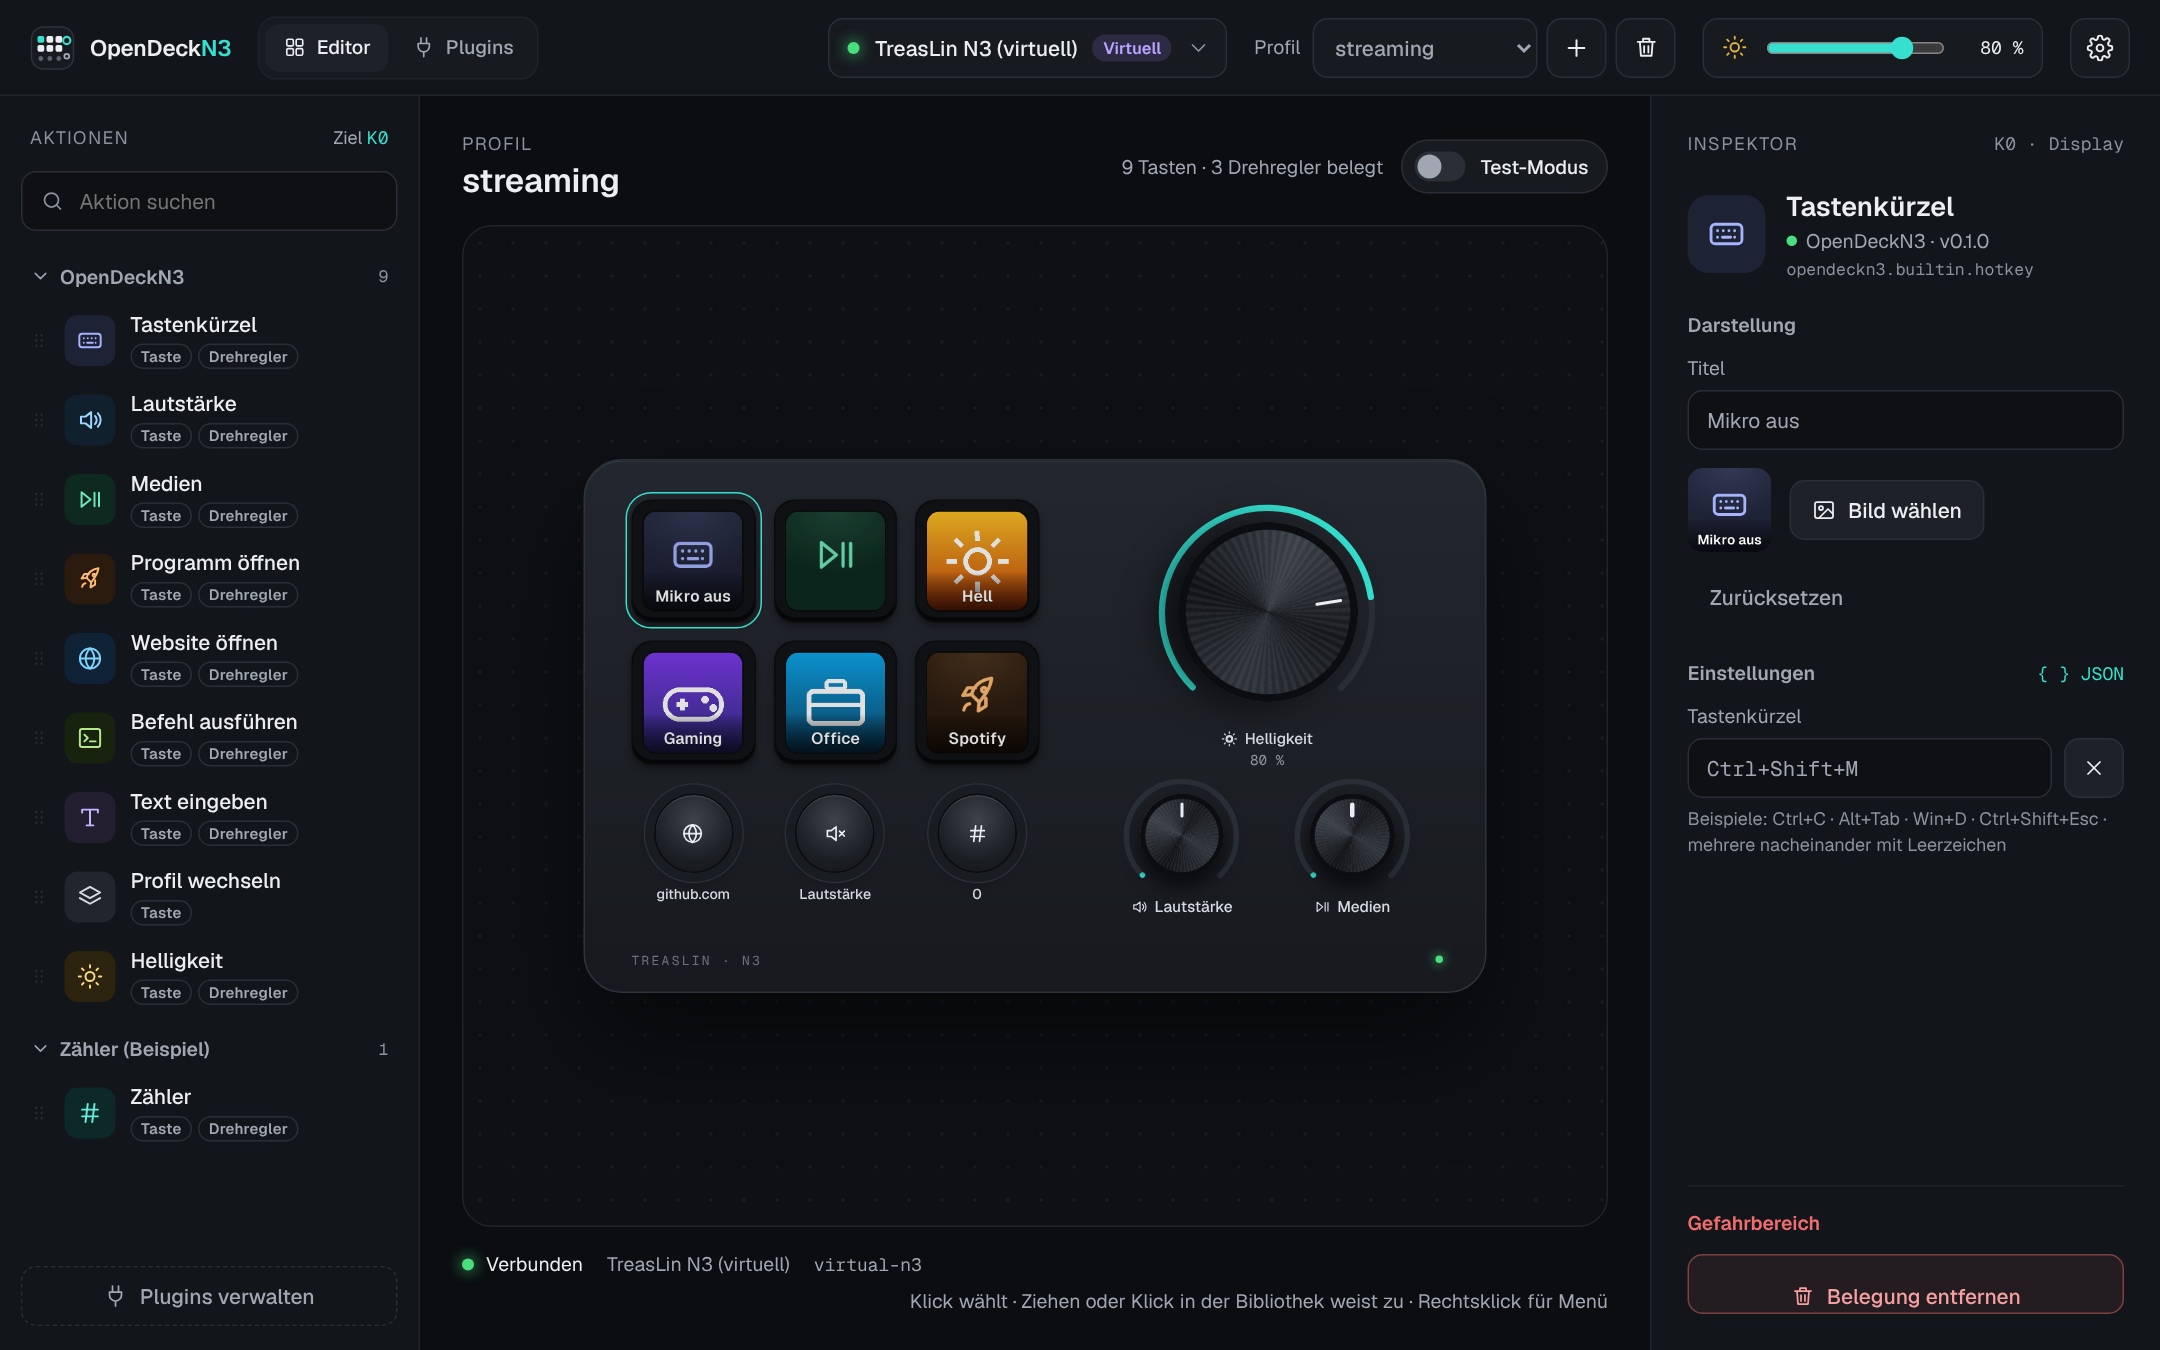
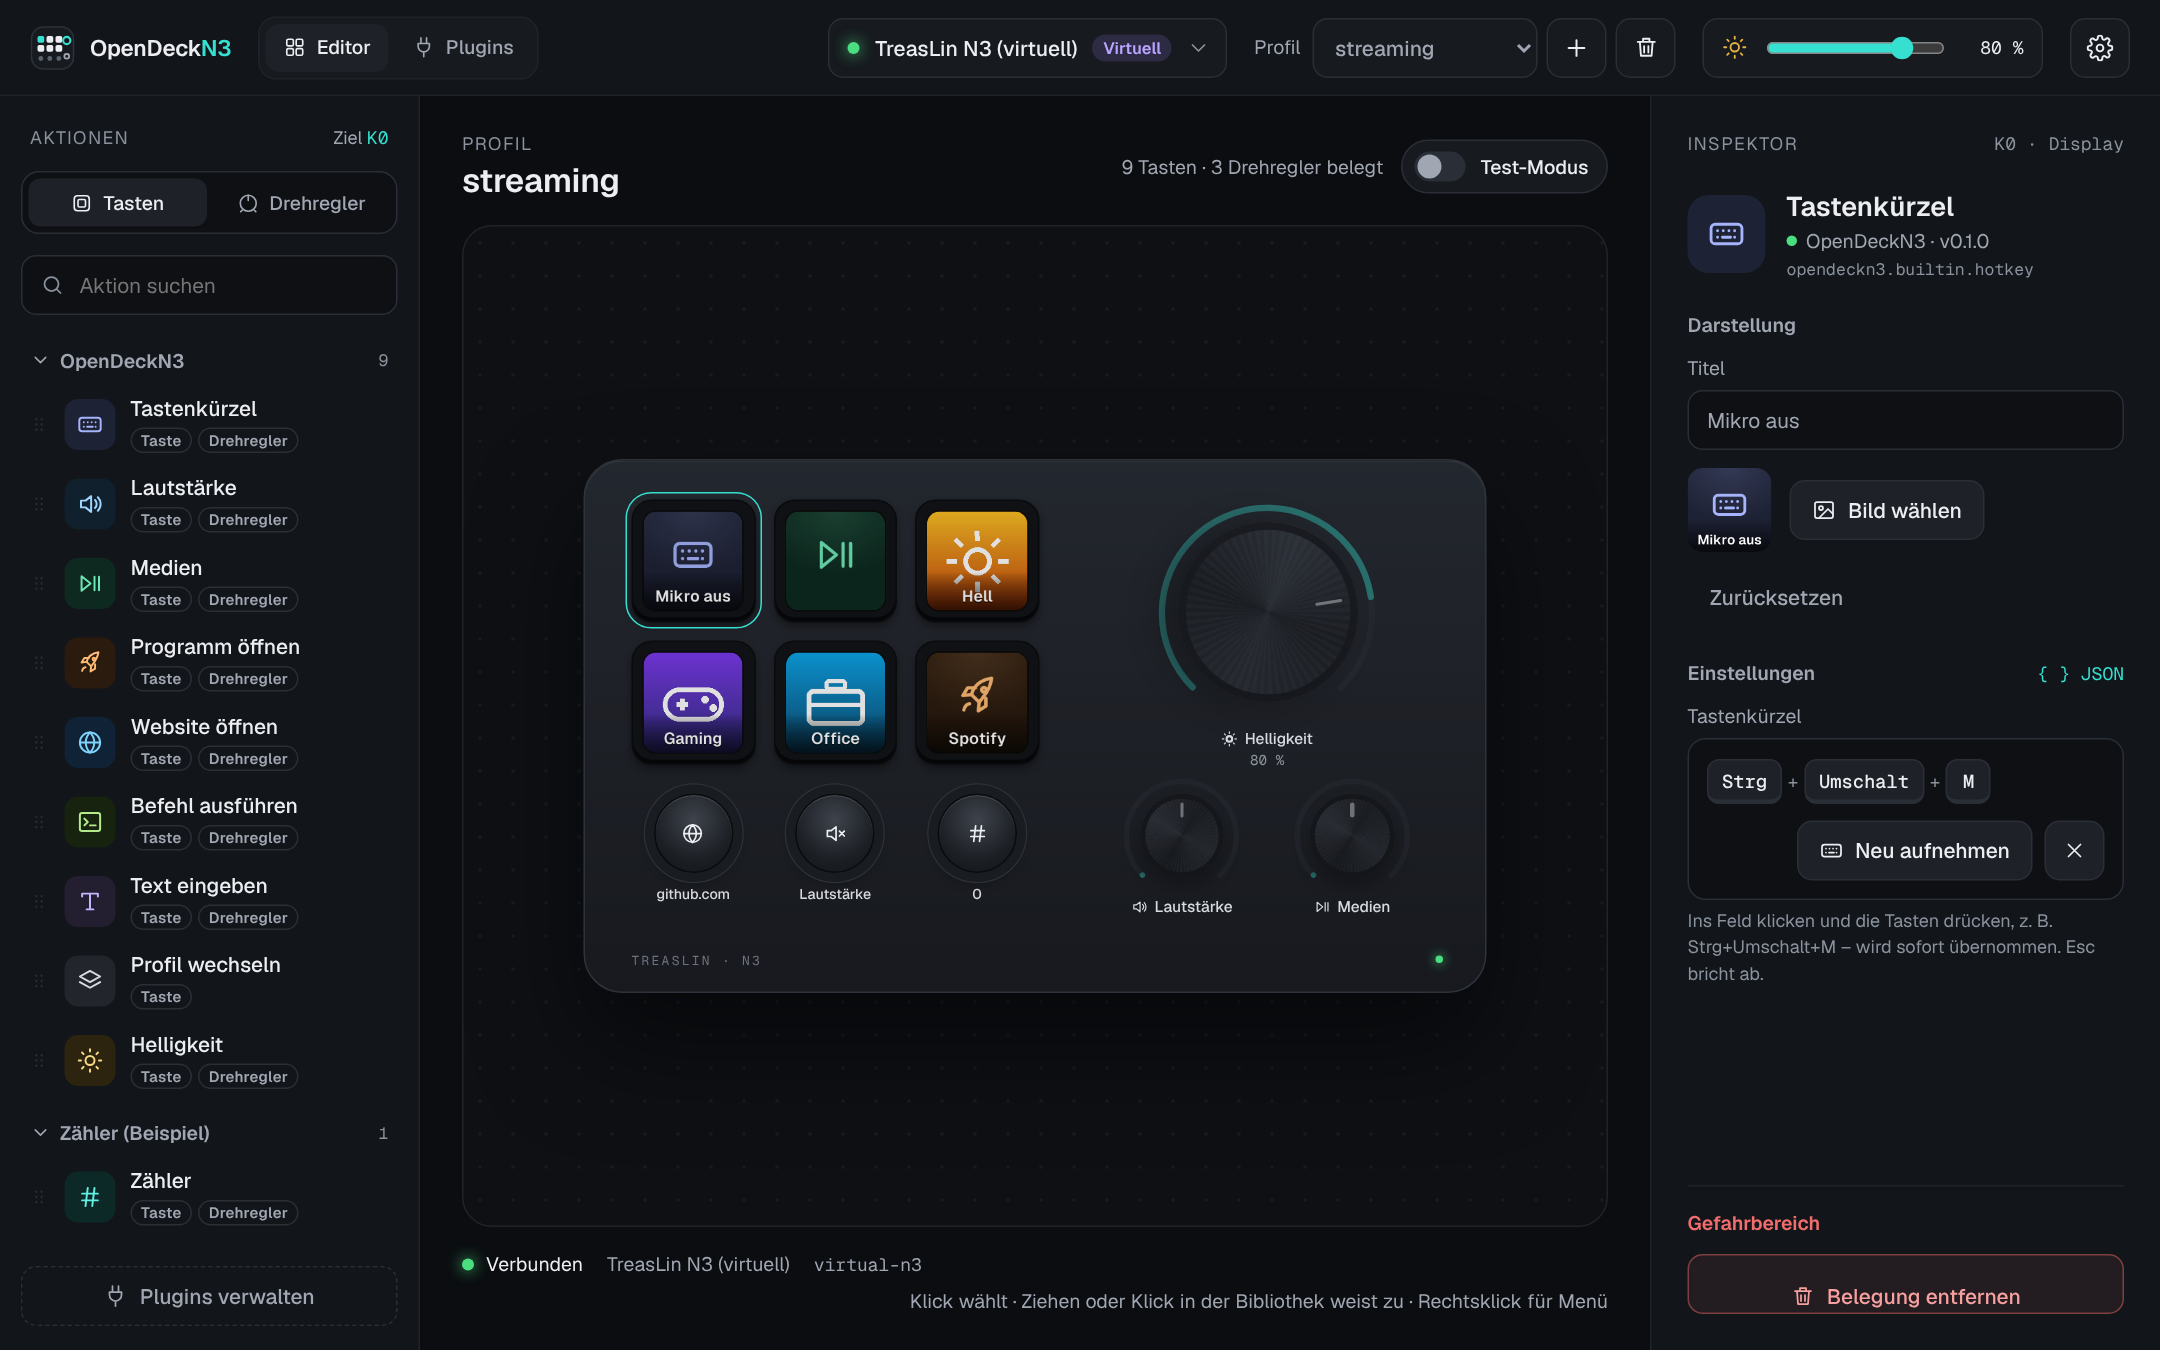
Bibliothek mit Modus Tasten/Drehregler, Tastenkürzel direkt im Feld aufnehmen
- Umschalter [Tasten | Drehregler] über der Aktionsbibliothek: es werden
  nur Aktionen für die gewählte Slot-Art gezeigt; der Modus folgt dem
  angeklickten Slot, beim Umschalten wird der zuletzt gewählte Slot
  dieser Art ausgewählt; Slots der anderen Art werden abgeblendet
- Tastenkürzel: das ganze Feld ist der Recorder (Klick oder Tab), und
  nach dem Zuweisen der Aktion startet die Aufnahme sofort – die nächste
  Kombination (z. B. Ctrl+Alt+T) wird direkt übernommen
- Screenshots aktualisiert

Claude-Session: https://claude.ai/code/session_011Ws7RT9k7MtuLviYWwDgxu

diff --git a/ui/index.html b/ui/index.html
@@ -192,6 +192,8 @@ pre.code{margin:0;padding:14px;font-family:'Geist Mono',monospace;font-size:12.5
 .replace::after{border-color:rgba(53,224,208,.3);border-style:dashed}
 .over::after{border-color:#35E0D0;background:rgba(53,224,208,.14);box-shadow:0 0 32px rgba(53,224,208,.5)}
 .disabled{opacity:.28}
+.dim{opacity:.4;transition:opacity .15s}.dim:hover{opacity:.75}
+.libmode{width:100%}.libmode button{flex:1;display:flex;align-items:center;justify-content:center;gap:7px}
 .press{box-shadow:0 0 0 2px #35E0D0,0 0 30px rgba(53,224,208,.55)!important}
 .device-outline{width:700px;height:404px;border-radius:30px;border:2px dashed var(--line);padding:34px 36px;display:flex;gap:56px;flex:none}
 .device-outline span{border:2px dashed var(--line);display:block}
@@ -354,6 +356,7 @@ const ICONS = {
   arrow: '<path d="M5 12h14M13 6l6 6-6 6"/>',
   edit: '<path d="M4 20h4L19 9l-4-4L4 16v4z"/><path d="M13.5 6.5l4 4"/>',
   duplicate: '<rect x="8" y="8" width="12" height="12" rx="2"/><path d="M4 16V5a1 1 0 0 1 1-1h11"/>',
+  dial: '<circle cx="12" cy="12" r="8.5"/><path d="M12 3.5V9"/><path d="M5.5 19.5l-1.5 1.5M18.5 19.5l1.5 1.5"/>',
   keyboard: '<rect x="2.5" y="6" width="19" height="12" rx="2.5"/><path d="M6.5 10h.01M10 10h.01M13.5 10h.01M17 10h.01M6.5 14h.01M17 14h.01M9.5 14h5"/>',
   text: '<path d="M5 7.5V5h14v2.5M12 5v14M9 19h6"/>',
   volumeDown: '<path d="M4 9v6h4l5 4V5L8 9H4z"/><path d="M16.5 8.5a5 5 0 0 1 0 7"/>',
@@ -641,6 +644,7 @@ function deviceHTML(v, o = {}) {
   const st = (x) => {
     const c = [];
     if (o.sel === x.id && !o.dragCtl) c.push('sel');
+    if (o.mode && !o.dragCtl && (x.id[0] === 'k' ? 'Keypad' : 'Encoder') !== o.mode) c.push('dim');
     if (o.pressed === x.id) c.push('press');
     if (o.dragCtl) {
       const ok = o.dragCtl.includes(x.id[0] === 'k' ? 'Keypad' : 'Encoder');
@@ -752,11 +756,16 @@ function barHTML() {
 /* =====================================================================
    Editor
    ===================================================================== */
+// Bibliotheks-Modus folgt dem gewählten Slot: Taste → Tasten-Aktionen, Drehregler → Drehregler-Aktionen.
+const libMode = () => parseId(S.sel).ctl;
+const lastSel = { Keypad: 'k0', Encoder: 'e1' };
+
 function libListHTML() {
   const q = S.q.trim().toLowerCase();
   let hits = 0;
   const html = S.catalog.map((p) => {
-    const items = p.actions.filter((a) => !q || a.name.toLowerCase().includes(q) || (a.tooltip || '').toLowerCase().includes(q));
+    const mode = libMode();
+    const items = p.actions.filter((a) => ctlOf(a).includes(mode) && (!q || a.name.toLowerCase().includes(q) || (a.tooltip || '').toLowerCase().includes(q)));
     if (!items.length) return '';
     hits += items.length;
     const open = !S.closed[p.uuid] || !!q;
@@ -774,15 +783,19 @@ function libListHTML() {
       }).join('') : ''}
     </div>`;
   }).join('');
-  return html + (hits ? '' : `<div style="padding:16px 8px;font-size:13px;color:var(--faint)">${S.catalog.length ? 'Keine Aktion gefunden.' : 'Noch keine Aktionen geladen.'}</div>`);
+  return html + (hits ? '' : `<div style="padding:16px 8px;font-size:13px;color:var(--faint)">${!S.catalog.length ? 'Noch keine Aktionen geladen.' : S.q.trim() ? 'Keine Aktion gefunden.' : libMode() === 'Encoder' ? 'Keine Aktionen für Drehregler.' : 'Keine Aktionen für Tasten.'}</div>`);
 }
 
 function libraryHTML() {
+  const mode = libMode();
+  lastSel[mode] = S.sel;
+  const modeBtn = (m, icon, label) => `<button type="button" role="radio" aria-checked="${mode === m}" data-act="libMode" data-arg="${m}">${ic(icon, 15)}${label}</button>`;
   return `<aside class="lib" aria-label="Aktionsbibliothek">
     <div style="display:flex;align-items:center;justify-content:space-between;padding:0 6px">
       <span class="label">Aktionen</span>
       <span style="font-size:12px;color:var(--muted)">Ziel <span class="mono" style="color:var(--accent-text)">${S.sel.toUpperCase()}</span></span>
     </div>
+    <div class="seg libmode" role="radiogroup" aria-label="Aktionen anzeigen für">${modeBtn('Keypad', 'key', 'Tasten')}${modeBtn('Encoder', 'dial', 'Drehregler')}</div>
     <label class="search">${ic('search', 16)}<input type="search" placeholder="Aktion suchen" aria-label="Aktion suchen" value="${esc(S.q)}" data-in="q"></label>
     <div id="liblist" style="flex:1;display:flex;flex-direction:column;gap:6px">${libListHTML()}</div>
     <button type="button" class="btn" data-act="nav" data-arg="plugins" style="border-style:dashed;background:transparent;color:var(--muted)">${ic('plug', 16)}Plugins verwalten</button>
@@ -802,7 +815,7 @@ function stageInner() {
     top = `<div class="hint rise"><span class="tile">${ic('grip', 20)}</span><span style="display:flex;flex-direction:column;gap:3px"><b style="font-size:15px;font-weight:600">Ziehe eine Aktion auf eine Taste</b><span style="font-size:13px;color:var(--muted);line-height:1.45">Oder wähle einen Slot und klicke links auf eine Aktion.</span></span></div>`;
   }
   return top + deviceHTML(viewSlots(d), {
-    interactive: true, sel: S.sel, pressed: S.pressed, dragCtl: dragAct ? ctlOf(dragAct.a) : null, over: S.over,
+    interactive: true, sel: S.sel, mode: libMode(), pressed: S.pressed, dragCtl: dragAct ? ctlOf(dragAct.a) : null, over: S.over,
     offline: devState() === 'disconnected', flip: S.flip, brightness: d.brightness
   });
 }
@@ -835,12 +848,13 @@ function schemaFormHTML(s, schema) {
         const rec = S.rec === f.key;
         const caps = rec
           ? (S.recPreview ? capsHTML(S.recPreview) + '<span class="ph">+ …</span>' : '<span class="ph pulse">Drücke jetzt die Tastenkombination …</span>')
-          : v ? capsHTML(String(v)) : '<span class="ph">Noch keine Taste festgelegt</span>';
+          : v ? capsHTML(String(v)) : '<span class="ph">Hier klicken und Tasten drücken</span>';
         const buttons = rec
           ? `<button type="button" class="btn ghost" data-act="cancelRec">Abbrechen</button>`
           : `<button type="button" class="btn" data-act="startRec" data-arg="${esc(f.key)}">${ic('keyboard', 16)}${v ? 'Neu aufnehmen' : 'Aufnehmen'}</button>${v
             ? `<button type="button" class="btn icon" data-act="clearField" data-arg="${esc(f.key)}" aria-label="Leeren" title="Leeren">${ic('x', 16)}</button>` : ''}`;
-        return `<div class="fieldwrap">${esc(f.label)}<div class="hotkey ${rec ? 'rec' : ''}" role="group" aria-label="${esc(f.label)}">
+        // Das ganze Feld ist der Recorder: anklicken (oder per Tab fokussieren) und Tasten drücken.
+        return `<div class="fieldwrap">${esc(f.label)}<div class="hotkey ${rec ? 'rec' : ''}" tabindex="0" role="button" data-act="startRec" data-arg="${esc(f.key)}" aria-label="${esc(f.label)} – klicken und Tasten drücken">
           <div class="caps" aria-live="polite">${caps}</div><div class="hk-actions">${buttons}</div></div>${f.help ? `<span class="help">${esc(f.help)}</span>` : ''}</div>`;
       }
       case 'file':
@@ -1258,9 +1272,16 @@ function assign(key, id) {
   const { ctl } = parseId(id);
   if (!ctlOf(f.a).includes(ctl)) { toast('err', `${f.a.name} unterstützt keine ${ctl === 'Encoder' ? 'Drehregler' : 'Tasten'}`); return; }
   if (!isLive()) { toast('warn', 'Gerät ist nicht verbunden'); return; }
-  S.sel = id; S.json = false;
+  S.sel = id; S.json = false; S.rec = null;
   api.run('setAction', { ...slotParams(id), plugin: f.p.uuid, action: f.a.uuid })
-    .then(() => toast('ok', `${f.a.name} → ${id.toUpperCase()}`)).catch(() => {});
+    .then(async () => {
+      toast('ok', `${f.a.name} → ${id.toUpperCase()}`);
+      // Tastenkürzel: Aufnahme sofort starten – die nächste Tastenkombination wird übernommen.
+      if (f.p.uuid === BUILTIN && f.a.uuid.endsWith('.hotkey')) {
+        await refresh();
+        if (S.sel === id && !S.modal) startRec('shortcut');
+      }
+    }).catch(() => {});
   render();
 }
 function clearSlot(id) {
@@ -1326,6 +1347,11 @@ const ACTS = {
   clear() { clearSlot(S.sel); },
   jsonMode() { S.json = !S.json; S.rec = null; render(); },
   startRec(key) { startRec(key); },
+  libMode(mode) {
+    if (libMode() === mode) return;
+    S.sel = lastSel[mode] || (mode === 'Encoder' ? 'e1' : 'k0');
+    S.json = false; S.rec = null; render();
+  },
   cancelRec() { stopRec(); },
   clearField(key) {
     const s = slot(S.sel); if (!s) return;
@@ -1425,6 +1451,10 @@ const ACTS = {
 };
 
 /* ---------- Ereignisse ---------- */
+document.addEventListener('focusin', (e) => {
+  const box = e.target.closest && e.target.closest('.hotkey[data-act="startRec"]');
+  if (box && !S.rec && e.target === box) startRec(box.dataset.arg);
+});
 document.addEventListener('keyup', (e) => {
   // Die Windows-Taste allein (Startmenü) ist auch ein gültiges Kürzel.
   if (S.rec && (e.key === 'Meta' || e.key === 'OS') && S.recPreview === 'Win') { e.preventDefault(); commitRec('Win'); }

diff --git a/crates/n3-daemon/src/builtin.rs b/crates/n3-daemon/src/builtin.rs
@@ -56,8 +56,7 @@ static ACTIONS: LazyLock<Vec<Value>> = LazyLock::new(|| {
                 "controllers": controllers, "icon": null, "settingsSchema": schema,
             })
         };
-    let shortcut_help =
-        "Auf „Aufnehmen“ klicken und die Tasten drücken, z. B. Strg+Umschalt+M. Esc bricht ab.";
+    let shortcut_help = "Ins Feld klicken und die Tasten drücken, z. B. Strg+Umschalt+M – wird sofort übernommen. Esc bricht ab.";
     vec![
         action(
             HOTKEY,
